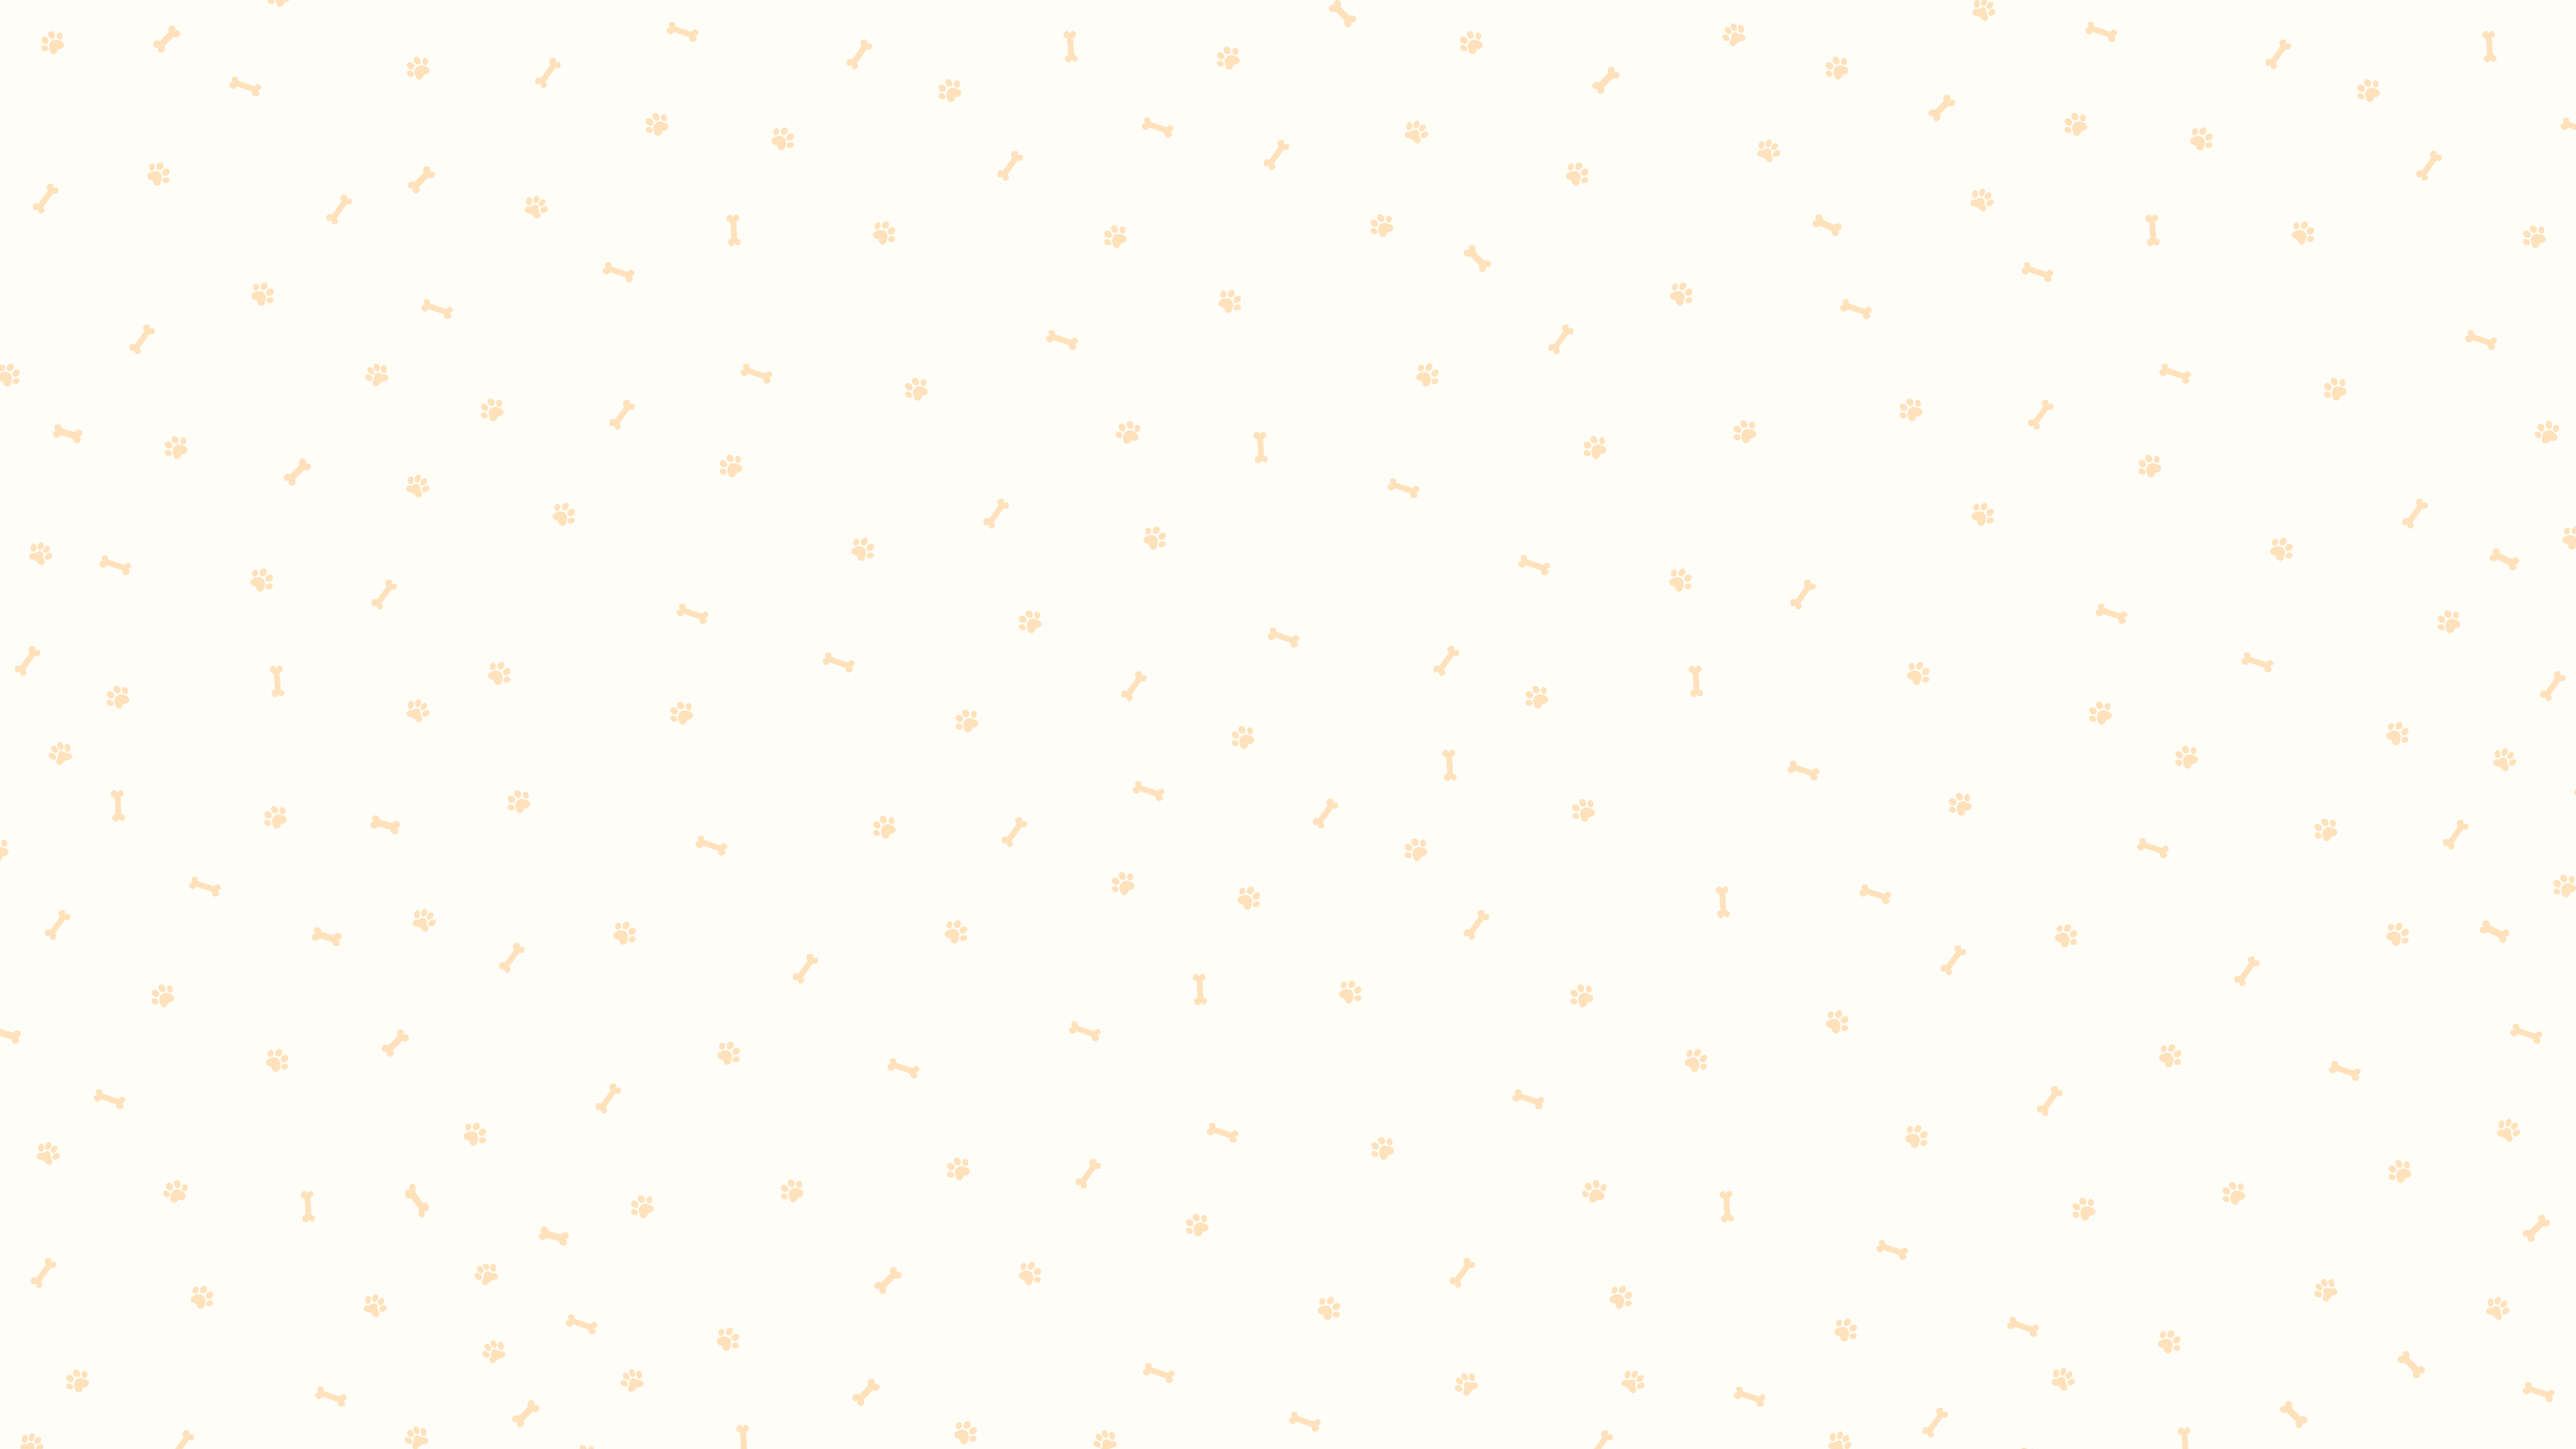
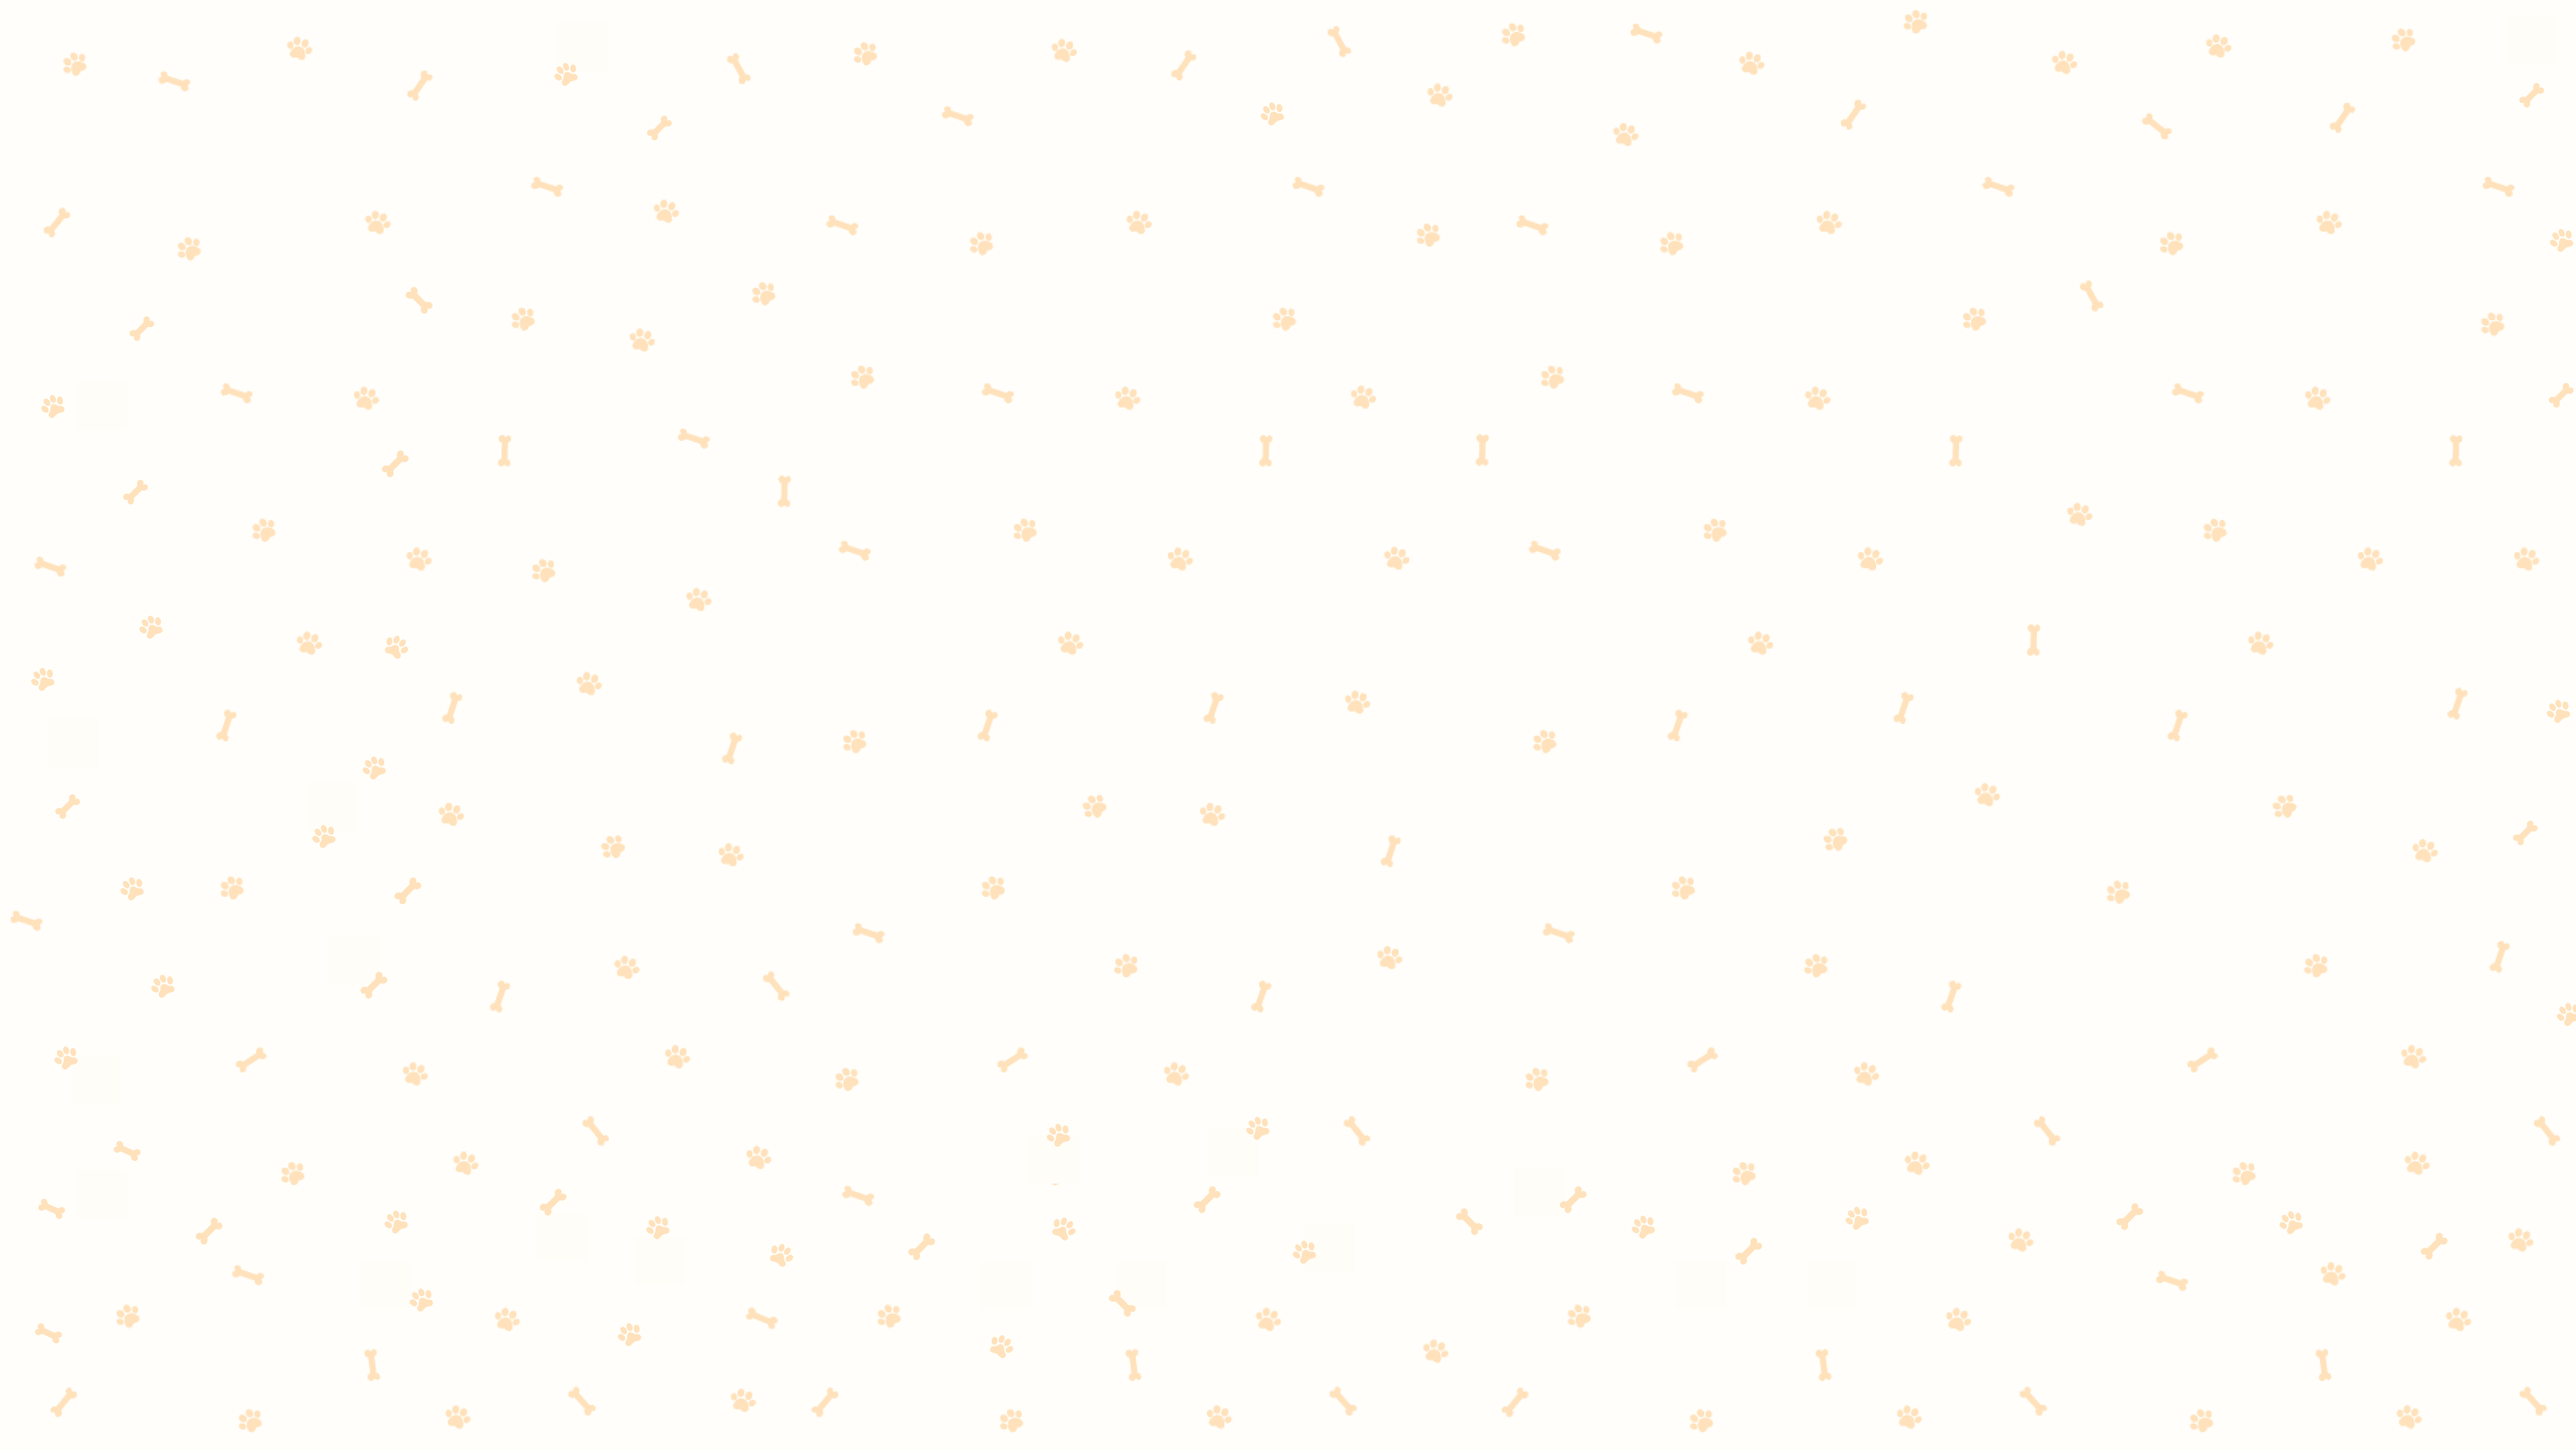
✨ Feat: layout 다크모드 적용

diff --git a/src/app/(main)/layout.tsx b/src/app/(main)/layout.tsx
@@ -10,7 +10,7 @@ export default function MainLayout({
   children: React.ReactNode;
 }) {
   return (
-    <div className="flex min-h-screen w-screen bg-[url('/images/bg.png')] bg-cover">
+    <div className="flex min-h-screen w-screen bg-[url('/images/bg.png')] bg-cover dark:bg-[url('/images/dark-bg.png')]">
       <TanstackProvider>
         <div className="h-screen">
           <Sidebar />
